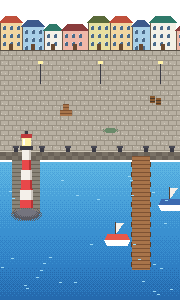
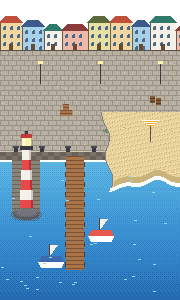
항구 출발 그림: 오른쪽에 모래 해변(파도 거품·파라솔), 부두·배 왼쪽으로 (경완 '항구 도시는 해변도 어느정도 보이게')
Claude-Session: https://claude.ai/code/session_012Z4iFifcZH9cfXSxsF9mWo

Changed region(s): [[0.2222, 0.36, 1.0, 0.9]]

diff --git a/assets_src/maps/init/init.py b/assets_src/maps/init/init.py
@@ -118,10 +118,10 @@ def beach():
   c.blot(110,130,8,'#6a8a6a',3)
   # 부둣가 돌 축대 + 계선주 (바다와 경계)
   QY=156
-  for x in range(W):
+  for x in range(112):
     for y in range(QY-4,QY+4): c.px(x,y,'#7a7266' if ((x//6)+(y//4))%2 else '#6a6258')
     c.px(x,QY-5,'#d0c8b8')
-  for bx in range(14,W,26): c.rect(bx,QY-9,4,5,'#3a3a44'); c.rect(bx-1,QY-10,6,2,'#4a4a55')
+  for bx in range(14,100,26): c.rect(bx,QY-9,4,5,'#3a3a44'); c.rect(bx-1,QY-10,6,2,'#4a4a55')
   # 바다 (아래 넓게)
   SEA=['#5cb4e2','#4aa2da','#3a90d0','#2f7fc4','#256aae']
   for x in range(W):
@@ -138,15 +138,35 @@ def beach():
   c.rect(20,146,13,4,'#3a3a44'); c.rect(22,138,9,8,'#fff2a8'); c.rect(23,139,2,6,'#ffffff')
   c.rect(21,134,11,4,'#c03a3c'); c.rect(25,131,3,3,'#3a3a44')
   # 오른쪽 나무 부두 + 배 두 척
-  for y in range(QY,270): c.rect(132,y,18,1,'#a8744a' if (y%4) else '#7d5233')
-  for y in range(QY+6,272,10): c.rect(131,y,1,5,'#5c3b22'); c.rect(150,y,1,5,'#5c3b22')
+  for y in range(QY,270): c.rect(66,y,18,1,'#a8744a' if (y%4) else '#7d5233')
+  for y in range(QY+6,272,10): c.rect(65,y,1,5,'#5c3b22'); c.rect(84,y,1,5,'#5c3b22')
   def boat(cx,cy,col):
     for y in range(cy-6,cy+6):
       w=16-abs(y-cy)
       c.rect(cx-w//2,y,w+10,1,col if y<cy else '#ffffff')
     c.rect(cx+3,cy-18,1,12,'#5a4030')
     for k in range(10): c.rect(cx+4,cy-17+k,max(1,int(8-k*0.7)),1,'#f4f0ea')
-  boat(112,240,'#e8584a'); boat(166,205,'#3c6ab0')
+  boat(96,236,'#e8584a'); boat(46,262,'#3c6ab0')
+  # 오른쪽 모래 해변: 포장 끝에서 모래로, 해변 물가는 축대보다 아래
+  def sh(x): return 182+round(math.sin(x*.07)*4+math.sin(x*.19)*2)
+  def se(y): return 104+round(math.sin(y*.15)*3+(y-110)*.08)
+  for y in range(112,H):
+    for x in range(W):
+      if x>=se(y):
+        if y<sh(x):
+          k=(x*31+y*17)%23
+          c.px(x,y,'#e8d39a' if k>3 else ('#cbb075' if k>1 else '#f4e6bc'))
+          if y>=sh(x)-6: c.px(x,y,'#c9b37a')
+        elif y<sh(x)+4: c.px(x,y,'#ffffff')
+  for y in range(112,H):   # 포장·모래 경계 돌 턱
+    x=se(y)
+    if y<sh(x): c.px(x,y,'#8a8276'); c.px(x+1,y,'#d8cfa8')
+  for i in range(10):
+    x,y=120+R.random()*55,120+R.random()*55
+    if y<sh(int(x))-8: c.px(x,y,'#f2a07a'); c.px(x+1,y,'#f2a07a'); c.px(x,y+1,'#f5f0e8')
+  # 파라솔 하나
+  c.rect(150,126,1,16,'#6a5040')
+  for k in range(6): c.rect(150-8+k,120+k,17-2*k,1,'#f0b030' if k%2 else '#ffffff')
   # 바다 반짝 자리
   for i in range(30):
     x,y=R.random()*W,175+R.random()*120; c.rect(x,y,3,1,'#9ad8f4')
